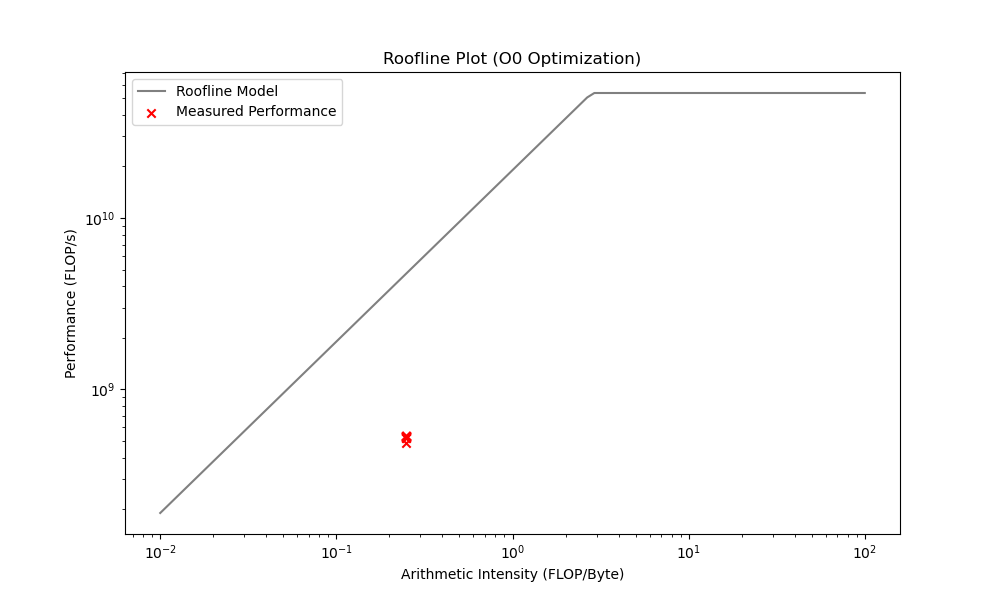
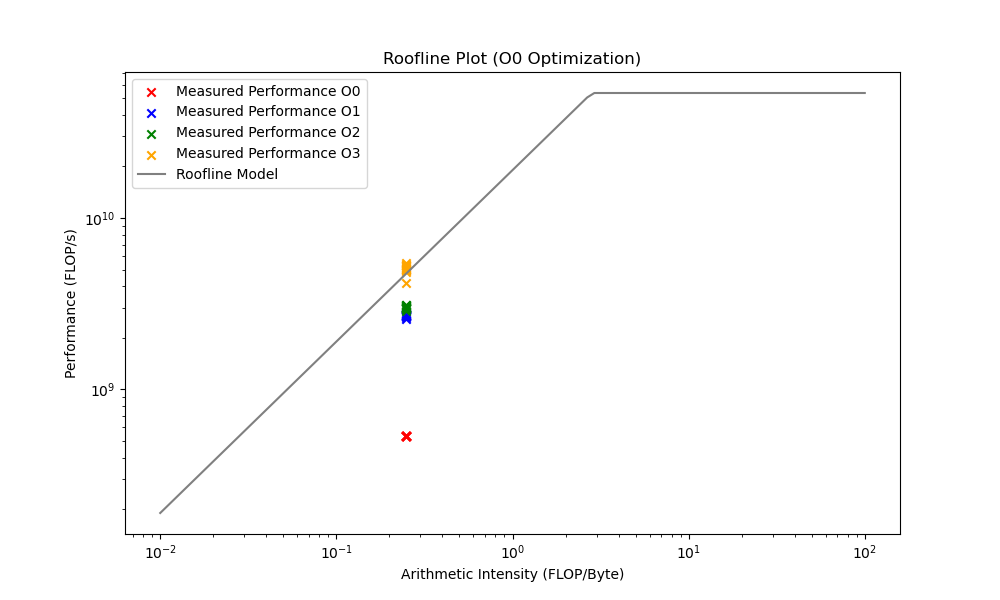
updated roofline plot

diff --git a/exercise_4/plot.py b/exercise_4/plot.py
@@ -10,8 +10,13 @@ exptected_peak = min(compute_roof,memory_bandwidth*AI)
 AI_range = np.logspace(-2,2,100)
 const_AI = roofline_data['flops']*0 + AI
 fig, ax = plt.subplots(1,1,figsize=(10,6))
+optimisation_levels = ["O0","O1", "O2", "O3"]
+colors = ["red", "blue", "green", "orange"]
+for level in optimisation_levels:
+    roofline_data = pd.read_csv(f'roofline_{level}.out',delim_whitespace=True)
+    const_AI = roofline_data['flops']*0 + AI
+    ax.scatter(const_AI,roofline_data["flops"]*1000000, label=f'Measured Performance {level}', color=colors[optimisation_levels.index(level)],marker= "x")
 ax.loglog(AI_range, np.minimum(compute_roof, memory_bandwidth*AI_range), label='Roofline Model', color='gray')
-ax.scatter(const_AI,roofline_data["flops"]*1000000, label='Measured Performance', color='red',marker= "x")
 ax.legend()
 ax.set_xlabel('Arithmetic Intensity (FLOP/Byte)')
 ax.set_ylabel('Performance (FLOP/s)')
